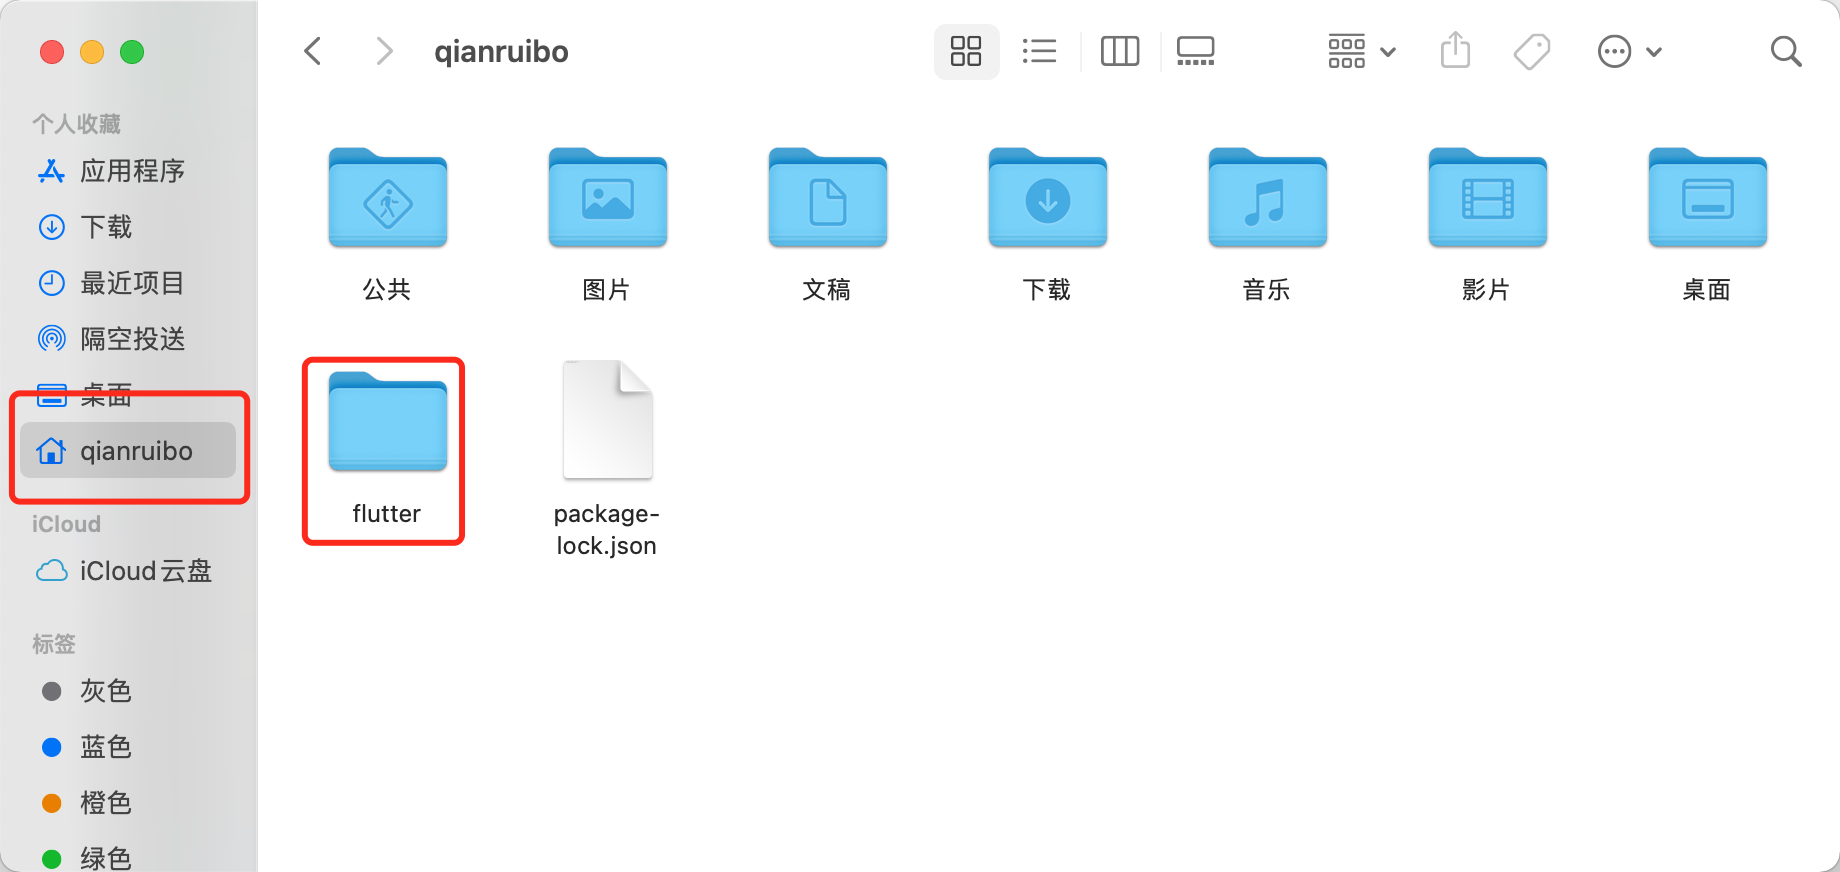
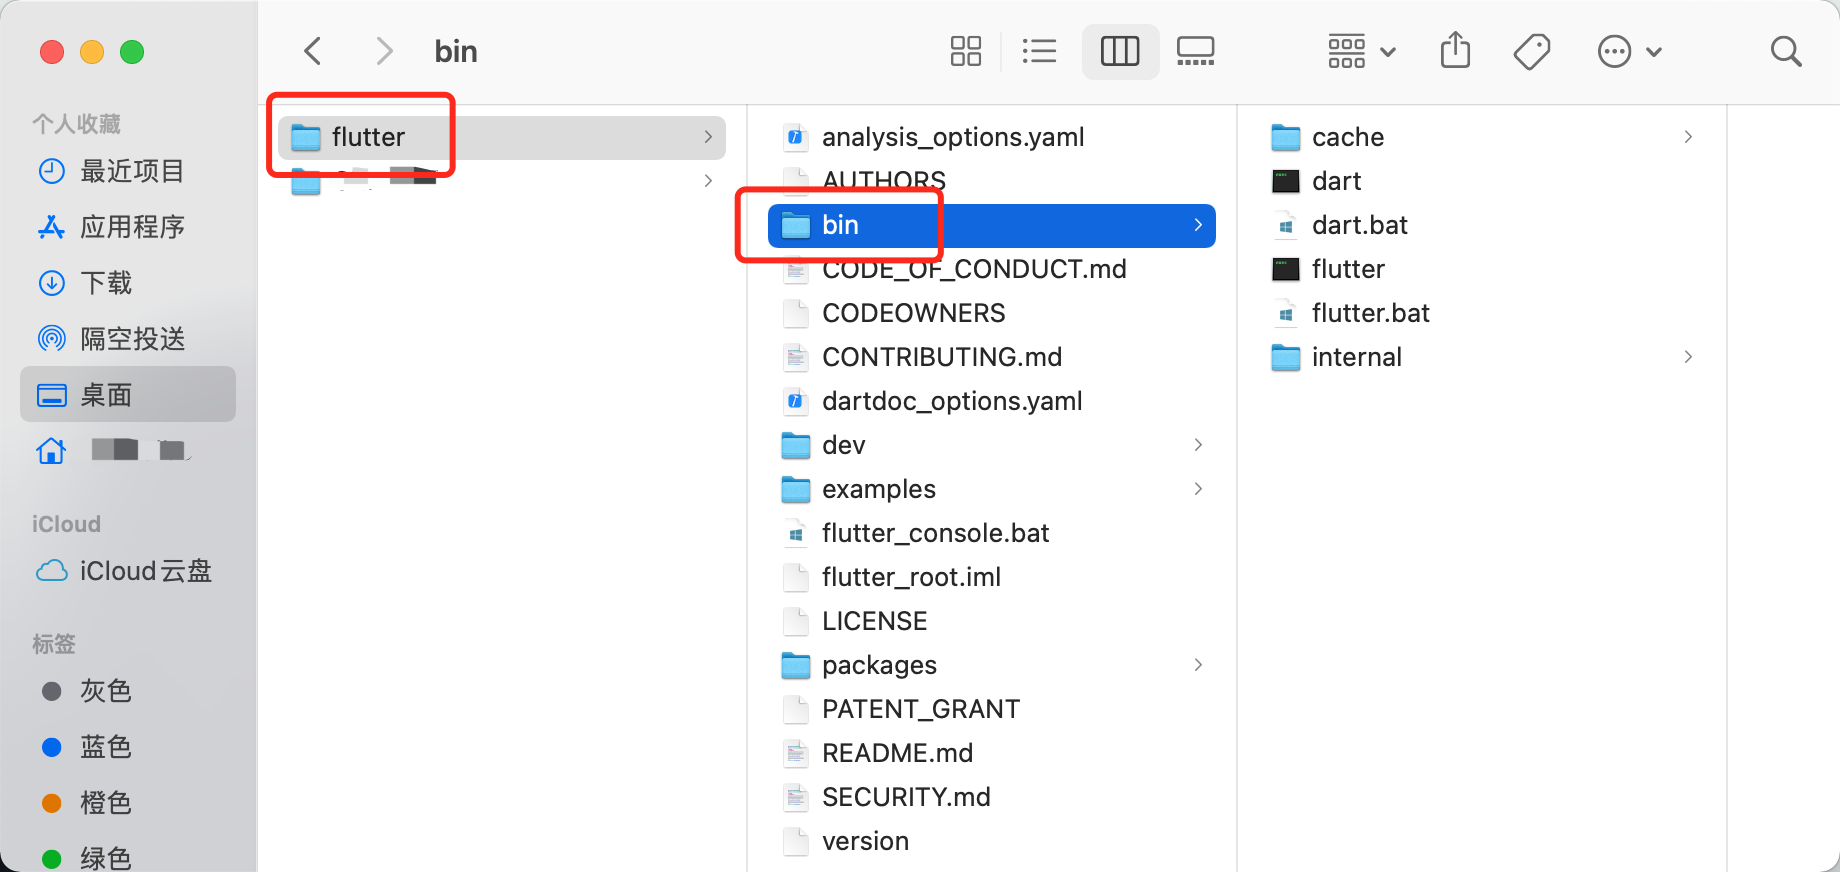
Site updated: 2021-04-05 18:17:37

diff --git a/2020/10/20/flutter-setup/index.html b/2020/10/20/flutter-setup/index.html
@@ -20,14 +20,15 @@
     var CONFIG = {"hostname":"yoursite.com","root":"/","scheme":"Pisces","version":"7.8.0","exturl":false,"sidebar":{"position":"left","display":"post","padding":18,"offset":12,"onmobile":false},"copycode":{"enable":false,"show_result":false,"style":null},"back2top":{"enable":true,"sidebar":false,"scrollpercent":true},"bookmark":{"enable":false,"color":"#222","save":"auto"},"fancybox":false,"mediumzoom":false,"lazyload":false,"pangu":false,"comments":{"style":"tabs","active":null,"storage":true,"lazyload":false,"nav":null},"algolia":{"hits":{"per_page":10},"labels":{"input_placeholder":"Search for Posts","hits_empty":"We didn't find any results for the search: ${query}","hits_stats":"${hits} results found in ${time} ms"}},"localsearch":{"enable":false,"trigger":"auto","top_n_per_article":1,"unescape":false,"preload":false},"motion":{"enable":true,"async":false,"transition":{"post_block":"fadeIn","post_header":"slideDownIn","post_body":"slideDownIn","coll_header":"slideLeftIn","sidebar":"slideUpIn"}}};
   </script>
 
-  <meta name="description" content="1. 获取Flutter SDK 去Flutter官网下载其最新可用的安装包，转到下载页 。 注意：Flutter的渠道版本会不停变动，请以Flutter官网为准。在中国大陆地区，要想正常获取安装包列表或下载安装包，可能需要翻墙。  去Flutter github项目下去下载安装包，转到下载页 。  双击进行解压，把解压后的文件夹 flutter 拖到电脑用户名文件夹下。">
+  <meta name="description" content="1. 获取Flutter SDK 去Flutter官网下载其最新可用的安装包，转到下载页 。  双击进行解压，把解压后的文件夹flutter拖到要安装的文件夹下。此处以桌面为例。">
 <meta property="og:type" content="article">
 <meta property="og:title" content="在macOS上搭建Flutter开发环境">
 <meta property="og:url" content="http://yoursite.com/2020/10/20/flutter-setup/index.html">
 <meta property="og:site_name" content="Ruibo Qian&#39;s Notes">
-<meta property="og:description" content="1. 获取Flutter SDK 去Flutter官网下载其最新可用的安装包，转到下载页 。 注意：Flutter的渠道版本会不停变动，请以Flutter官网为准。在中国大陆地区，要想正常获取安装包列表或下载安装包，可能需要翻墙。  去Flutter github项目下去下载安装包，转到下载页 。  双击进行解压，把解压后的文件夹 flutter 拖到电脑用户名文件夹下。">
+<meta property="og:description" content="1. 获取Flutter SDK 去Flutter官网下载其最新可用的安装包，转到下载页 。  双击进行解压，把解压后的文件夹flutter拖到要安装的文件夹下。此处以桌面为例。">
 <meta property="og:locale" content="zh_CN">
 <meta property="og:image" content="http://yoursite.com/images/flutter/%E4%BF%AE%E6%94%B9flutter%E7%9B%AE%E5%BD%95.png">
+<meta property="og:image" content="http://yoursite.com/images/flutter/%E8%8E%B7%E5%8F%96bin%E6%96%87%E4%BB%B6%E5%A4%B9%E8%B7%AF%E5%BE%84.png">
 <meta property="og:image" content="http://yoursite.com/images/flutter/%E9%85%8D%E7%BD%AE%E7%8E%AF%E5%A2%83%E5%8F%98%E9%87%8F.png">
 <meta property="og:image" content="http://yoursite.com/images/flutter/doctor.png">
 <meta property="og:image" content="http://yoursite.com/images/flutter/creat.png">
@@ -35,7 +36,7 @@
 <meta property="og:image" content="http://yoursite.com/images/flutter/Xcode.png">
 <meta property="og:image" content="http://yoursite.com/images/flutter/demo.png">
 <meta property="article:published_time" content="2020-10-20T07:27:38.000Z">
-<meta property="article:modified_time" content="2021-04-05T08:33:44.509Z">
+<meta property="article:modified_time" content="2021-04-05T10:16:51.567Z">
 <meta property="article:author" content="Ruibo Qian">
 <meta property="article:tag" content="Flutter">
 <meta name="twitter:card" content="summary">
@@ -207,7 +208,7 @@
                   <i class="far fa-calendar-check"></i>
                 </span>
                 <span class="post-meta-item-text">更新于</span>
-                <time title="修改时间：2021-04-05 16:33:44" itemprop="dateModified" datetime="2021-04-05T16:33:44+08:00">2021-04-05</time>
+                <time title="修改时间：2021-04-05 18:16:51" itemprop="dateModified" datetime="2021-04-05T18:16:51+08:00">2021-04-05</time>
               </span>
             <span class="post-meta-item">
               <span class="post-meta-item-icon">
@@ -237,24 +238,39 @@
     <div class="post-body" itemprop="articleBody">
 
       
-        <h2 id="1-获取Flutter-SDK"><a href="#1-获取Flutter-SDK" class="headerlink" title="1. 获取Flutter SDK"></a>1. 获取Flutter SDK</h2><ol>
+        <h2 id="1-获取Flutter-SDK"><a href="#1-获取Flutter-SDK" class="headerlink" title="1. 获取Flutter SDK"></a>1. 获取<code>Flutter SDK</code></h2><ol>
 <li><p>去<code>Flutter官网</code>下载其最新可用的安装包，<a target="_blank" rel="noopener" href="https://flutter.dev/docs/development/tools/sdk/releases?tab=macos#macos">转到下载页</a> 。</p>
-<p>注意：Flutter的渠道版本会不停变动，请以Flutter官网为准。在中国大陆地区，要想正常获取安装包列表或下载安装包，可能需要翻墙。</p>
 </li>
-<li><p>去<code>Flutter github项目</code>下去下载安装包，<a target="_blank" rel="noopener" href="https://github.com/flutter/flutter/releases">转到下载页</a> 。</p>
-</li>
-<li><p>双击进行解压，把解压后的文件夹 <code>flutter</code> 拖到电脑用户名文件夹下。</p>
+<li><p>双击进行解压，把解压后的文件夹<code>flutter</code>拖到要安装的文件夹下。此处以桌面为例。</p>
 </li>
 </ol>
 <a id="more"></a>
 
 <p><img src="/images/flutter/%E4%BF%AE%E6%94%B9flutter%E7%9B%AE%E5%BD%95.png" alt="修改flutter目录"></p>
-<h2 id="2-配置环境变量"><a href="#2-配置环境变量" class="headerlink" title="2. 配置环境变量"></a>2. 配置环境变量</h2><ol>
+<ol start="3">
+<li><p>获取<code>bin</code>文件夹路径</p>
+<ol>
+<li><p>把<code>flutter</code>文件夹中的<code>bin</code>文件夹拖到终端里，获取其文件路径。</p>
+<p><img src="/images/flutter/%E8%8E%B7%E5%8F%96bin%E6%96%87%E4%BB%B6%E5%A4%B9%E8%B7%AF%E5%BE%84.png" alt="获取bin文件夹路径"></p>
+</li>
+<li><p>复制此路径备用</p>
+<figure class="highlight plain"><table><tr><td class="gutter"><pre><span class="line">1</span><br></pre></td><td class="code"><pre><span class="line">&#x2F;Users&#x2F;qianruibo&#x2F;Desktop&#x2F;flutter&#x2F;bin</span><br></pre></td></tr></table></figure>
+
+
+
+</li>
+</ol>
+</li>
+</ol>
+<h2 id="2-配置镜像和环境变量"><a href="#2-配置镜像和环境变量" class="headerlink" title="2. 配置镜像和环境变量"></a>2. 配置镜像和环境变量</h2><ol>
 <li><p>在终端输入下面命令并回车</p>
 <figure class="highlight plain"><table><tr><td class="gutter"><pre><span class="line">1</span><br></pre></td><td class="code"><pre><span class="line">vim ~&#x2F;.bash_profile</span><br></pre></td></tr></table></figure>
 </li>
-<li><p>添加下面命令行（<strong>注意：第三行中的 <code>qianruibo</code> 修改为你自己电脑的用户名</strong>）</p>
-<figure class="highlight plain"><table><tr><td class="gutter"><pre><span class="line">1</span><br><span class="line">2</span><br><span class="line">3</span><br><span class="line">4</span><br><span class="line">5</span><br></pre></td><td class="code"><pre><span class="line">export PUB_HOSTED_URL&#x3D;https:&#x2F;&#x2F;pub.flutter-io.cn</span><br><span class="line"></span><br><span class="line">export FLUTTER_STORAGE_BASE_URL&#x3D;https:&#x2F;&#x2F;storage.flutter-io.cn</span><br><span class="line"></span><br><span class="line">export PATH&#x3D;&#x2F;Users&#x2F;qianruibo&#x2F;flutter&#x2F;bin:$PATH</span><br></pre></td></tr></table></figure>
+<li><p>配置镜像</p>
+<figure class="highlight plain"><table><tr><td class="gutter"><pre><span class="line">1</span><br><span class="line">2</span><br></pre></td><td class="code"><pre><span class="line">export PUB_HOSTED_URL&#x3D;https:&#x2F;&#x2F;pub.flutter-io.cn</span><br><span class="line">export FLUTTER_STORAGE_BASE_URL&#x3D;https:&#x2F;&#x2F;storage.flutter-io.cn</span><br></pre></td></tr></table></figure>
+</li>
+<li><p>配置环境变量（根据之前准备的路径制作）</p>
+<figure class="highlight plain"><table><tr><td class="gutter"><pre><span class="line">1</span><br></pre></td><td class="code"><pre><span class="line">export PATH&#x3D;&#x2F;Users&#x2F;qianruibo&#x2F;Desktop&#x2F;flutter&#x2F;bin:$PATH</span><br></pre></td></tr></table></figure>
 <p><img src="/images/flutter/%E9%85%8D%E7%BD%AE%E7%8E%AF%E5%A2%83%E5%8F%98%E9%87%8F.png" alt="配置环境变量"></p>
 </li>
 <li><p>输入 <code>:wq</code> ，保存环境变量文件</p>
@@ -360,7 +376,7 @@
 
       <!--noindex-->
       <div class="post-toc-wrap sidebar-panel">
-          <div class="post-toc motion-element"><ol class="nav"><li class="nav-item nav-level-2"><a class="nav-link" href="#1-%E8%8E%B7%E5%8F%96Flutter-SDK"><span class="nav-text">1. 获取Flutter SDK</span></a></li><li class="nav-item nav-level-2"><a class="nav-link" href="#2-%E9%85%8D%E7%BD%AE%E7%8E%AF%E5%A2%83%E5%8F%98%E9%87%8F"><span class="nav-text">2. 配置环境变量</span></a></li><li class="nav-item nav-level-2"><a class="nav-link" href="#3-%E8%BF%90%E8%A1%8C-flutter-doctor"><span class="nav-text">3. 运行 flutter doctor</span></a></li><li class="nav-item nav-level-2"><a class="nav-link" href="#4-%E5%88%9B%E5%BB%BAFlutter%E9%A1%B9%E7%9B%AE"><span class="nav-text">4. 创建Flutter项目</span></a></li><li class="nav-item nav-level-2"><a class="nav-link" href="#5-%E8%BF%90%E8%A1%8CFlutter%E9%A1%B9%E7%9B%AE"><span class="nav-text">5. 运行Flutter项目</span></a></li><li class="nav-item nav-level-2"><a class="nav-link" href="#6-%E7%95%8C%E9%9D%A2%E5%B1%95%E7%A4%BA"><span class="nav-text">6. 界面展示</span></a></li></ol></div>
+          <div class="post-toc motion-element"><ol class="nav"><li class="nav-item nav-level-2"><a class="nav-link" href="#1-%E8%8E%B7%E5%8F%96Flutter-SDK"><span class="nav-text">1. 获取Flutter SDK</span></a></li><li class="nav-item nav-level-2"><a class="nav-link" href="#2-%E9%85%8D%E7%BD%AE%E9%95%9C%E5%83%8F%E5%92%8C%E7%8E%AF%E5%A2%83%E5%8F%98%E9%87%8F"><span class="nav-text">2. 配置镜像和环境变量</span></a></li><li class="nav-item nav-level-2"><a class="nav-link" href="#3-%E8%BF%90%E8%A1%8C-flutter-doctor"><span class="nav-text">3. 运行 flutter doctor</span></a></li><li class="nav-item nav-level-2"><a class="nav-link" href="#4-%E5%88%9B%E5%BB%BAFlutter%E9%A1%B9%E7%9B%AE"><span class="nav-text">4. 创建Flutter项目</span></a></li><li class="nav-item nav-level-2"><a class="nav-link" href="#5-%E8%BF%90%E8%A1%8CFlutter%E9%A1%B9%E7%9B%AE"><span class="nav-text">5. 运行Flutter项目</span></a></li><li class="nav-item nav-level-2"><a class="nav-link" href="#6-%E7%95%8C%E9%9D%A2%E5%B1%95%E7%A4%BA"><span class="nav-text">6. 界面展示</span></a></li></ol></div>
       </div>
       <!--/noindex-->
 

diff --git a/index.html b/index.html
@@ -196,7 +196,7 @@
                   <i class="far fa-calendar-check"></i>
                 </span>
                 <span class="post-meta-item-text">更新于</span>
-                <time title="修改时间：2021-04-05 16:33:44" itemprop="dateModified" datetime="2021-04-05T16:33:44+08:00">2021-04-05</time>
+                <time title="修改时间：2021-04-05 18:16:51" itemprop="dateModified" datetime="2021-04-05T18:16:51+08:00">2021-04-05</time>
               </span>
             <span class="post-meta-item">
               <span class="post-meta-item-icon">
@@ -219,13 +219,10 @@
     <div class="post-body" itemprop="articleBody">
 
       
-          <h2 id="1-获取Flutter-SDK"><a href="#1-获取Flutter-SDK" class="headerlink" title="1. 获取Flutter SDK"></a>1. 获取Flutter SDK</h2><ol>
+          <h2 id="1-获取Flutter-SDK"><a href="#1-获取Flutter-SDK" class="headerlink" title="1. 获取Flutter SDK"></a>1. 获取<code>Flutter SDK</code></h2><ol>
 <li><p>去<code>Flutter官网</code>下载其最新可用的安装包，<a target="_blank" rel="noopener" href="https://flutter.dev/docs/development/tools/sdk/releases?tab=macos#macos">转到下载页</a> 。</p>
-<p>注意：Flutter的渠道版本会不停变动，请以Flutter官网为准。在中国大陆地区，要想正常获取安装包列表或下载安装包，可能需要翻墙。</p>
 </li>
-<li><p>去<code>Flutter github项目</code>下去下载安装包，<a target="_blank" rel="noopener" href="https://github.com/flutter/flutter/releases">转到下载页</a> 。</p>
-</li>
-<li><p>双击进行解压，把解压后的文件夹 <code>flutter</code> 拖到电脑用户名文件夹下。</p>
+<li><p>双击进行解压，把解压后的文件夹<code>flutter</code>拖到要安装的文件夹下。此处以桌面为例。</p>
 </li>
 </ol>
           <!--noindex-->

diff --git a/css/main.css b/css/main.css
@@ -1236,7 +1236,7 @@ pre .javascript .function {
 }
 .links-of-author a::before,
 .links-of-author span.exturl::before {
-  background: #ff636e;
+  background: #ff0bbe;
   border-radius: 50%;
   content: ' ';
   display: inline-block;
